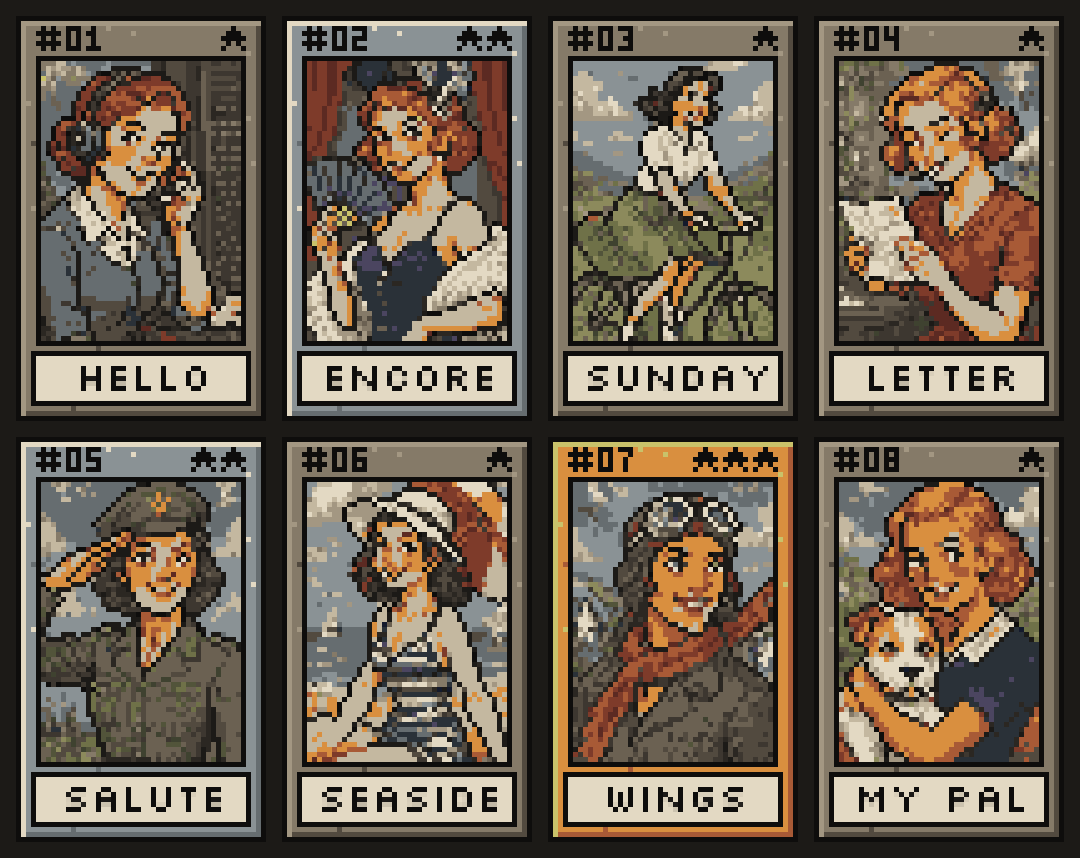
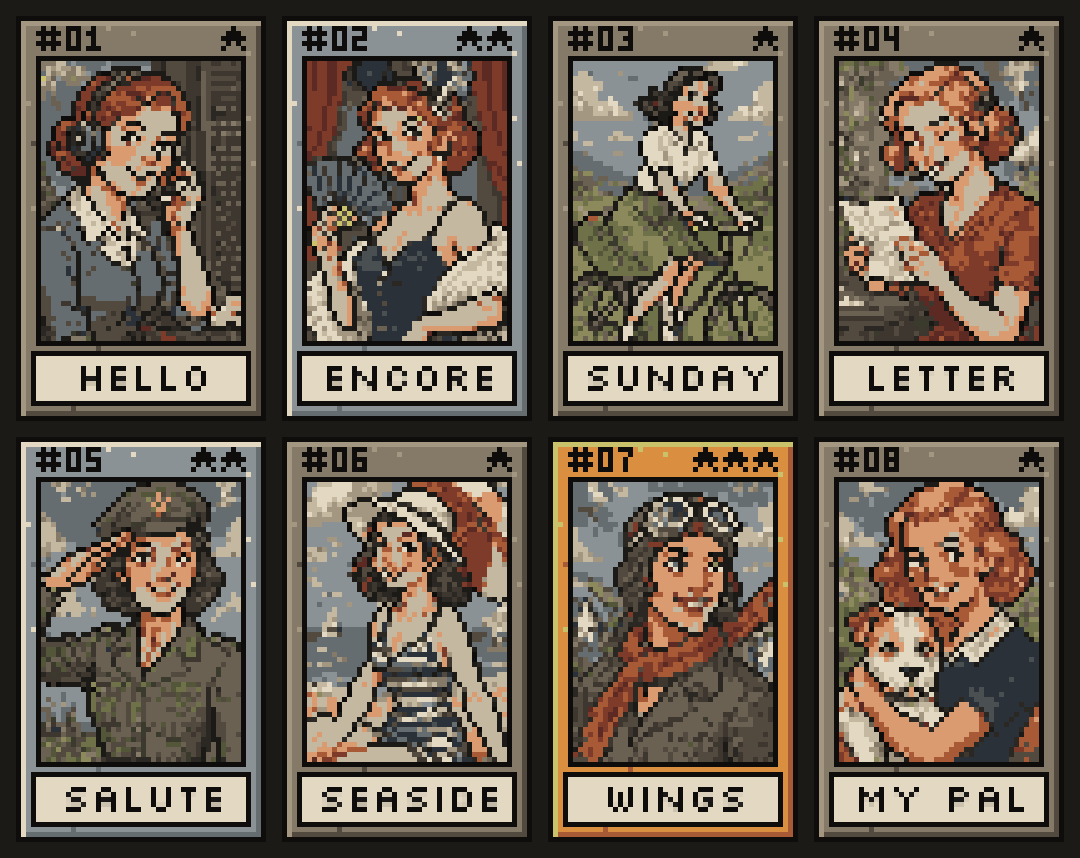
Kartičky: barvy (pleť jako vojáci, barvy mimo Trench 24 opravené, varianta stará tiskovina); CLAUDE.md: PixelLab archy pro malé obrázky
Claude-Session: https://claude.ai/code/session_01VWWMSwJGFZow7tBNcmKaEZ

diff --git a/docs/mockups/cards/cut_sheet.py b/docs/mockups/cards/cut_sheet.py
@@ -17,6 +17,24 @@ DIG = {'#': ['.#.#.', '#####', '.#.#.', '#####', '.#.#.'], '0': ['###', '#.#', '
        '5': ['###', '#..', '###', '..#', '###'], '6': ['###', '#..', '###', '#.#', '###'], '7': ['###', '..#', '.#.', '.#.', '.#.'],
        '8': ['###', '#.#', '###', '#.#', '###'], '9': ['###', '#.#', '###', '..#', '###']}
 
+# Barvy (uživatel 23. 11.: doladit): pleť jako u vojáků ve hře (tlumená broskvová řada ze spritů), barvy mimo Trench 24 na nejbližší z palety.
+# A2 (zvoleno): jen nejsvětlejší okrová → světlá pleť vojáků; tmavší rezavé zůstávají, ať vlasy nezesvětlí (varianta A měnila i je, colors_A_vs_A2.png)
+SKIN = {'#d98f3f': '#db9b71'}
+FIX = {'#52543a': '#545639', '#3f4230': '#3a3b2c', '#4b4560': '#4a4f52', '#141a2c': '#2a3138'}
+def recolor(im, sepia=0.0):
+    """přemapuje barvy podle SKIN a FIX; sepia > 0 = stará tiskovina (každá barva se přiblíží k #857a68)"""
+    hexc = lambda p: '#%02x%02x%02x' % p[:3]
+    rgb = lambda h: tuple(int(h[i:i + 2], 16) for i in (1, 3, 5))
+    out = im.copy(); px = out.load()
+    for y in range(out.height):
+        for x in range(out.width):
+            p = px[x, y]
+            if p[3] == 0: continue
+            h = hexc(p); h = SKIN.get(h, FIX.get(h, h)); c = rgb(h)
+            if sepia: c = tuple(round(a + (b - a) * sepia) for a, b in zip(c, (133, 122, 104)))
+            px[x, y] = c + (255,)
+    return out
+
 def tiny(im, x, y, s, col):
     for ch in s:
         g = DIG[ch]
@@ -61,16 +79,22 @@ def card(art, no, title, rar):
 
 if __name__ == '__main__':
     src, first = sys.argv[1], int(sys.argv[2]) if len(sys.argv) > 2 else 1
+    sepia = float(sys.argv[sys.argv.index('--sepia') + 1]) if '--sepia' in sys.argv else 0.0
+    raw = '--raw' in sys.argv   # bez úpravy barev (pro srovnání)
     sheet = Image.open(R + src if not src.startswith('/') else src).convert('RGBA')
+    if not raw: sheet = recolor(sheet, sepia)
     cs = cells(sheet); assert len(cs) == 8, f'čekám 8 kartiček, našel jsem {len(cs)}: {cs}'
     cards = []
     for k, (x0, y0, x1, y1) in enumerate(cs):
         cx, cy = (x0 + x1) // 2, (y0 + y1) // 2                 # střed buňky → společný výřez 40 × 56 (bez tenkého rámečku z archu)
         art = sheet.crop((cx - AW // 2, cy - AH // 2, cx - AW // 2 + AW, cy - AH // 2 + AH))
         no = first + k; title, rar = NAMES.get(no, (f'NO {no}', 'common'))
-        c = card(art, no, title, rar); c.save(OUT + f'card_{no:02d}.png'); cards.append(c)
+        c = card(art, no, title, rar)
+        if not raw and not sepia: c.save(OUT + f'card_{no:02d}.png')
+        cards.append(c)
     K, G = 5, 16
     out = Image.new('RGB', (4 * (W * K + G) + G, 2 * (H * K + G) + G), (28, 26, 23))
     for k, c in enumerate(cards):
         b = c.resize((W * K, H * K), Image.NEAREST); out.paste(b, (G + (k % 4) * (W * K + G), G + (k // 4) * (H * K + G)), b)
-    out.save(OUT + f'sheet_cards_{first:02d}.png'); print('ok', len(cards), 'karet', W, 'x', H)
+    tag = '_raw' if raw else (f'_sepia{int(sepia*100)}' if sepia else '')
+    out.save(OUT + f'sheet_cards_{first:02d}{tag}.png'); print('ok', len(cards), 'karet', W, 'x', H, tag)

diff --git a/CLAUDE.md b/CLAUDE.md
@@ -145,6 +145,8 @@ silné bombardování se smrtí přímým zásahem, spojař proti granátům) je
   = pixminimax se startovním snímkem ze schváleného spritu ze hry (ořez 48×48), 8 snímků, 1 generace za směr. Styl, kůže a výbava drží.
   Zbraň určuje startovní snímek (bez pušky → póza bez pušky, puška na zádech → chůze zezadu). v3 a skeleton-v3 dávaly horší styl, pohyb i zbraně.
   Import `tools/import-anim.py … --canvas 64` (barvy a kůže stran), pak `make-atlas.py`, `npm test`; kontrolní stránka jen s novými kusy (db `reviews`).
+- **PixelLab: malé obrázky VŽDY v archu (uživatel 23. 11.: „zapamatuj si to, až budeme dělat další“):** Pro Flash (`img`) se platí za obrázek podle delší strany (≤96 px 5 gen., ≤208 px 6, ≤256 px 9), ne podle velikosti. Malé kusy (kartičky, ikony) proto generuj jako **arch 192×128 = 8 kusů 48×64 v mřížce 4×2 za 6 generací** (místo 8 × 5 = 40). Prompt: „sprite sheet of 8 separate … in a strict grid of 4 columns and 2 rows, each … exactly 48 pixels wide and 64 pixels tall with a thin dark border“ + výčet 8 námětů. Rozstříhání a rámeček `docs/mockups/cards/cut_sheet.py` (najde světlé mezery, kontroluje počet 8, ořízne na společný vnitřek). Test 23. 11.: `art/cine/card_sheet_a.png` vyšel napoprvé.
+- **Sběratelské kartičky (NÁVRH, `docs/CARDS.md`):** velikost 48×64 (uživatel 23. 11.: 72×96 je moc detailní, jiná grafika), karta 50×81 v rámečku podle vzácnosti; barvy: nejsvětlejší okrová → pleť vojáků `#db9b71`, barvy mimo Trench 24 na nejbližší (`recolor` v `cut_sheet.py`, varianta A2). Hotový arch #01–#08; zbylé 2 archy (12 gen.) až na pokyn uživatele.
 - **PixelLab (generace jsou omezené, duplikáty se NESMÍ stát; pravidlo uživatele 2026-11-13):** generuj jen přes `python tools/pixellab.py anim <postava> <název> <směr> '<json>'` (jeden směr na volání, kontrola existující animace a `art/pixellab/ledger.jsonl`, kontrola plné fronty, žádné automatické opakování). Nikdy nepiš vlastní smyčky „zkus znovu“ kolem `animate_character`: PixelLab při plné frontě přijme část směrů a opakování je pošle znovu (13. 11. tak vzniklo ~230 zbytečných generací). Před větší dávkou řekni uživateli odhad ceny a zůstatek (`python tools/pixellab.py balance`). Klíč je síťové tajemství prostředí (api.pixellab.ai), nikdy ho nevypisuj ani neukládej. Plán spritů: `docs/SPRITE_PLAN.md`, log: `art/pixellab/LOG.md`.
 - **Odpovídej česky.** Texty ve hře a na Instagramu jsou anglicky (publikum USA/UK, ne Praha).
 - **Jen zdarma:** žádné placené služby, Firebase Blaze, Cloud Functions ani placená API. Firebase je na Spark, média na GitHub Pages.
